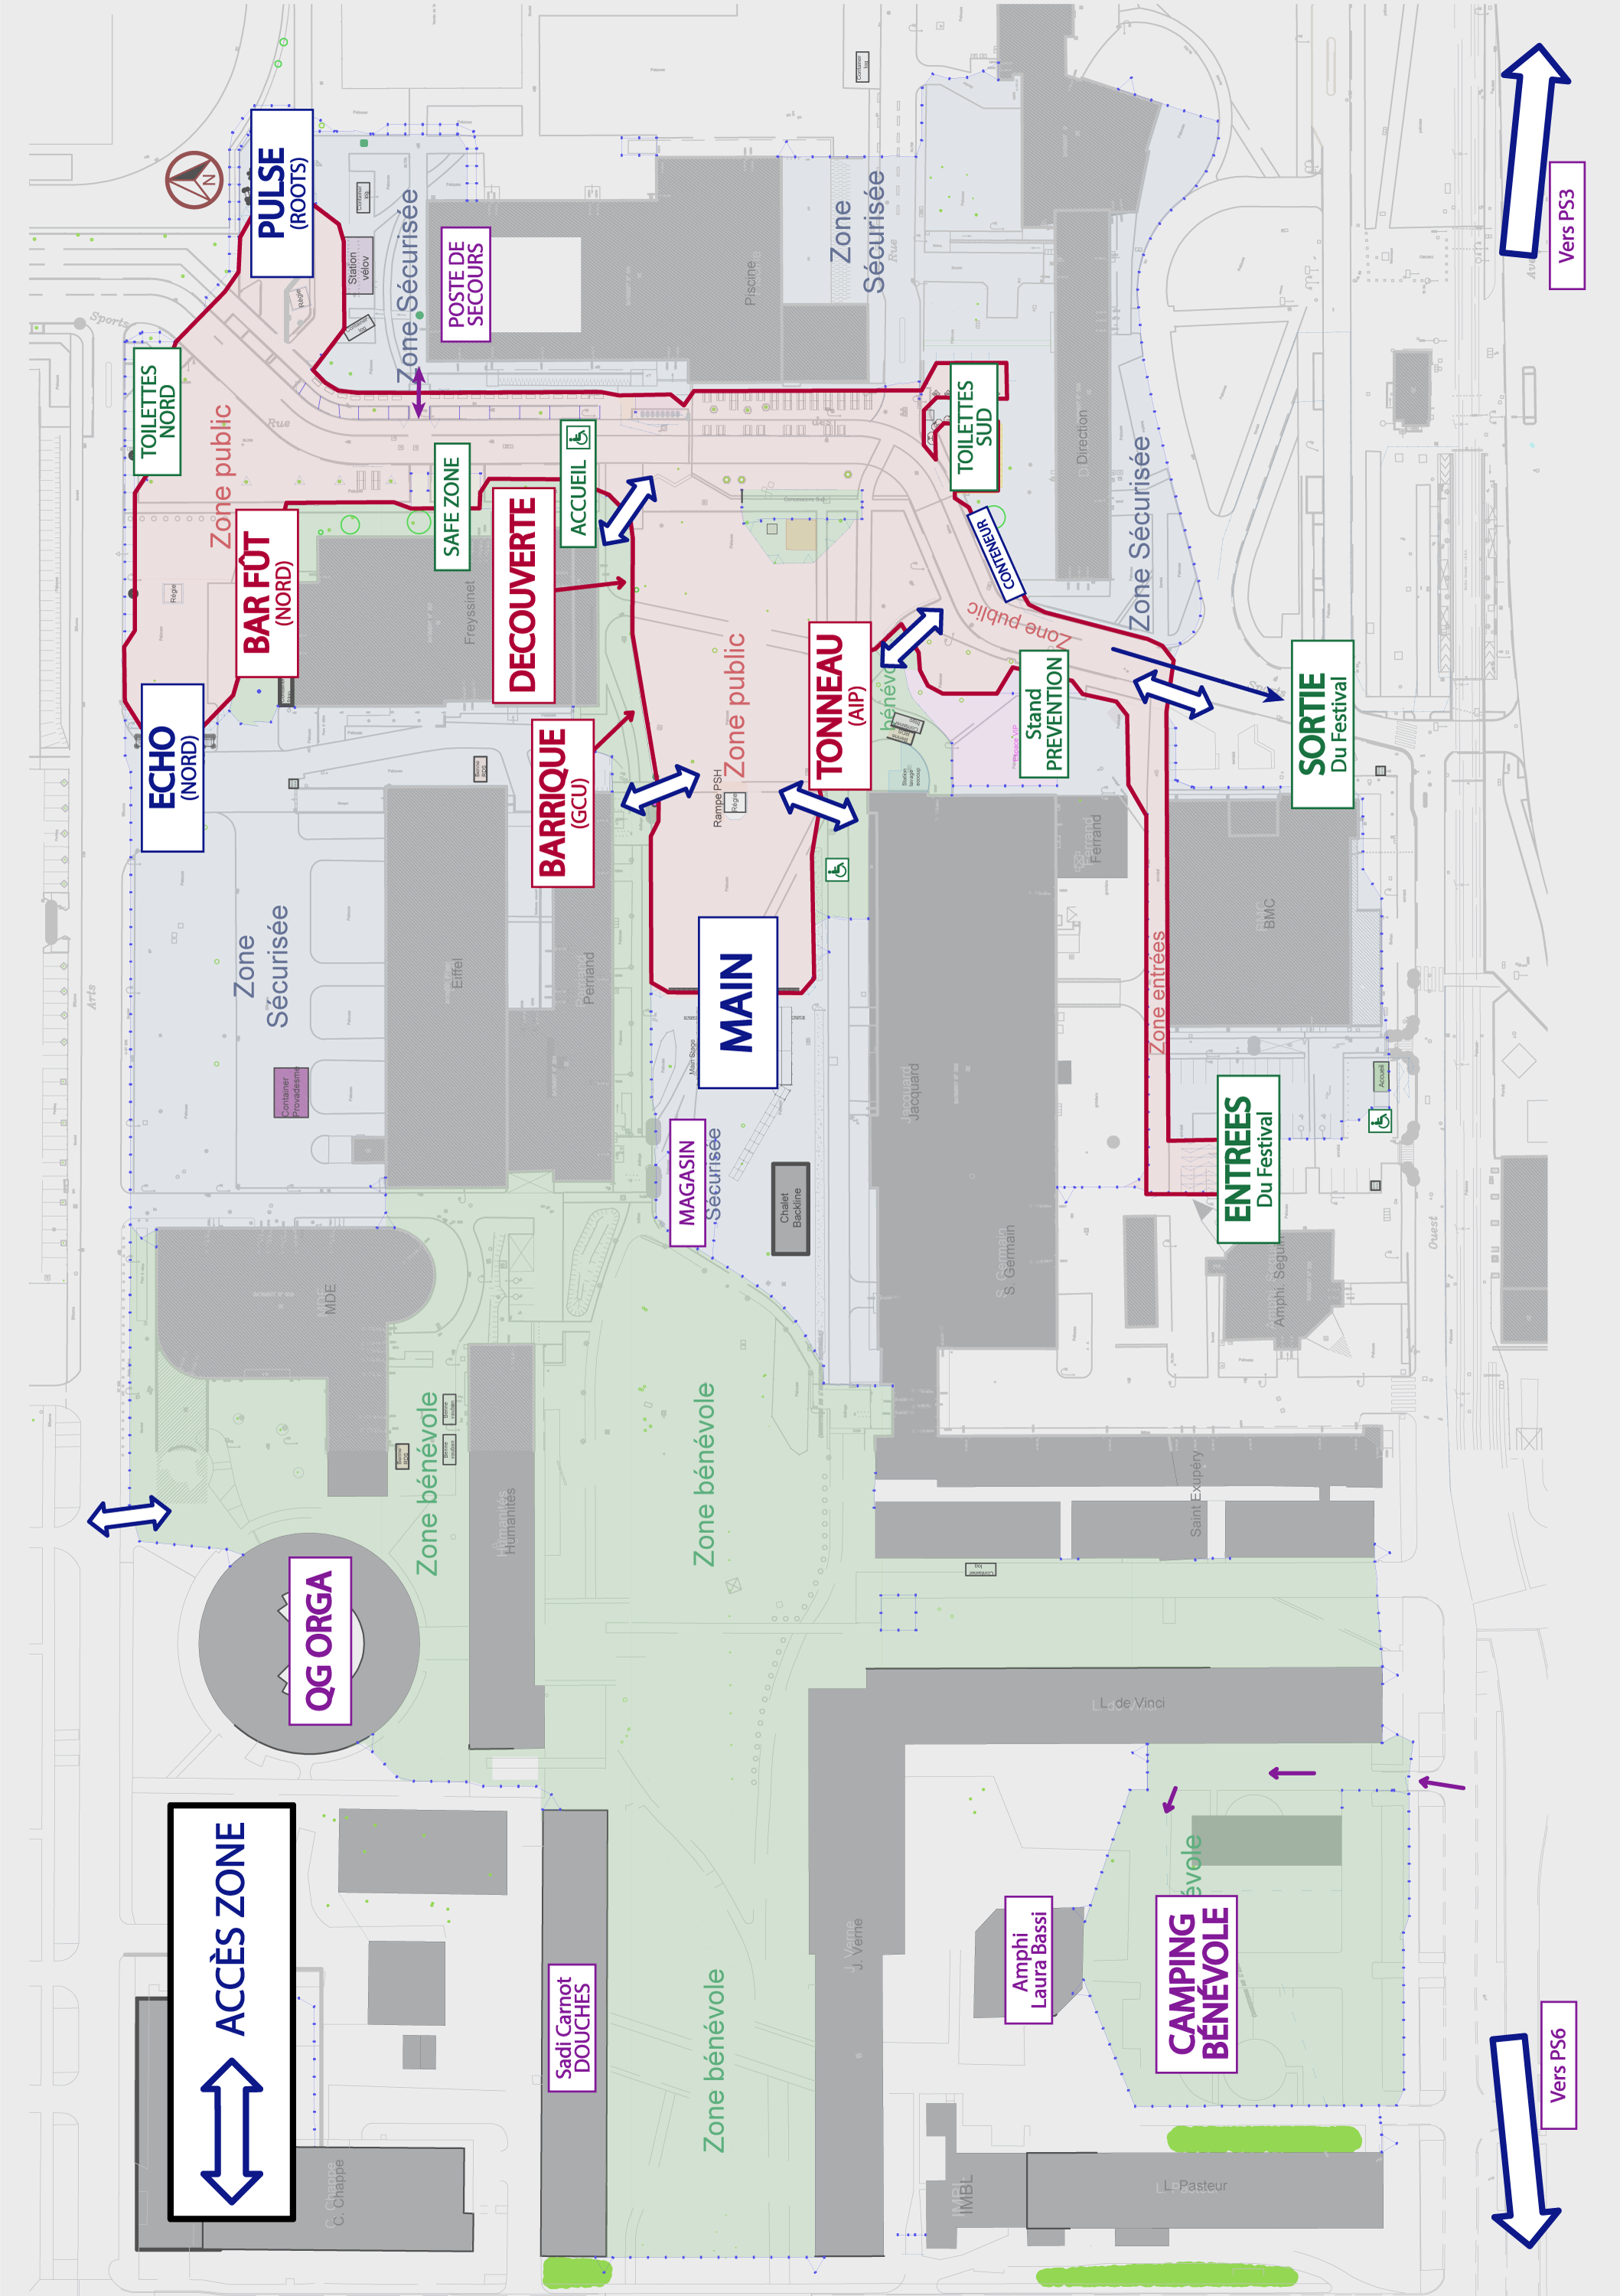
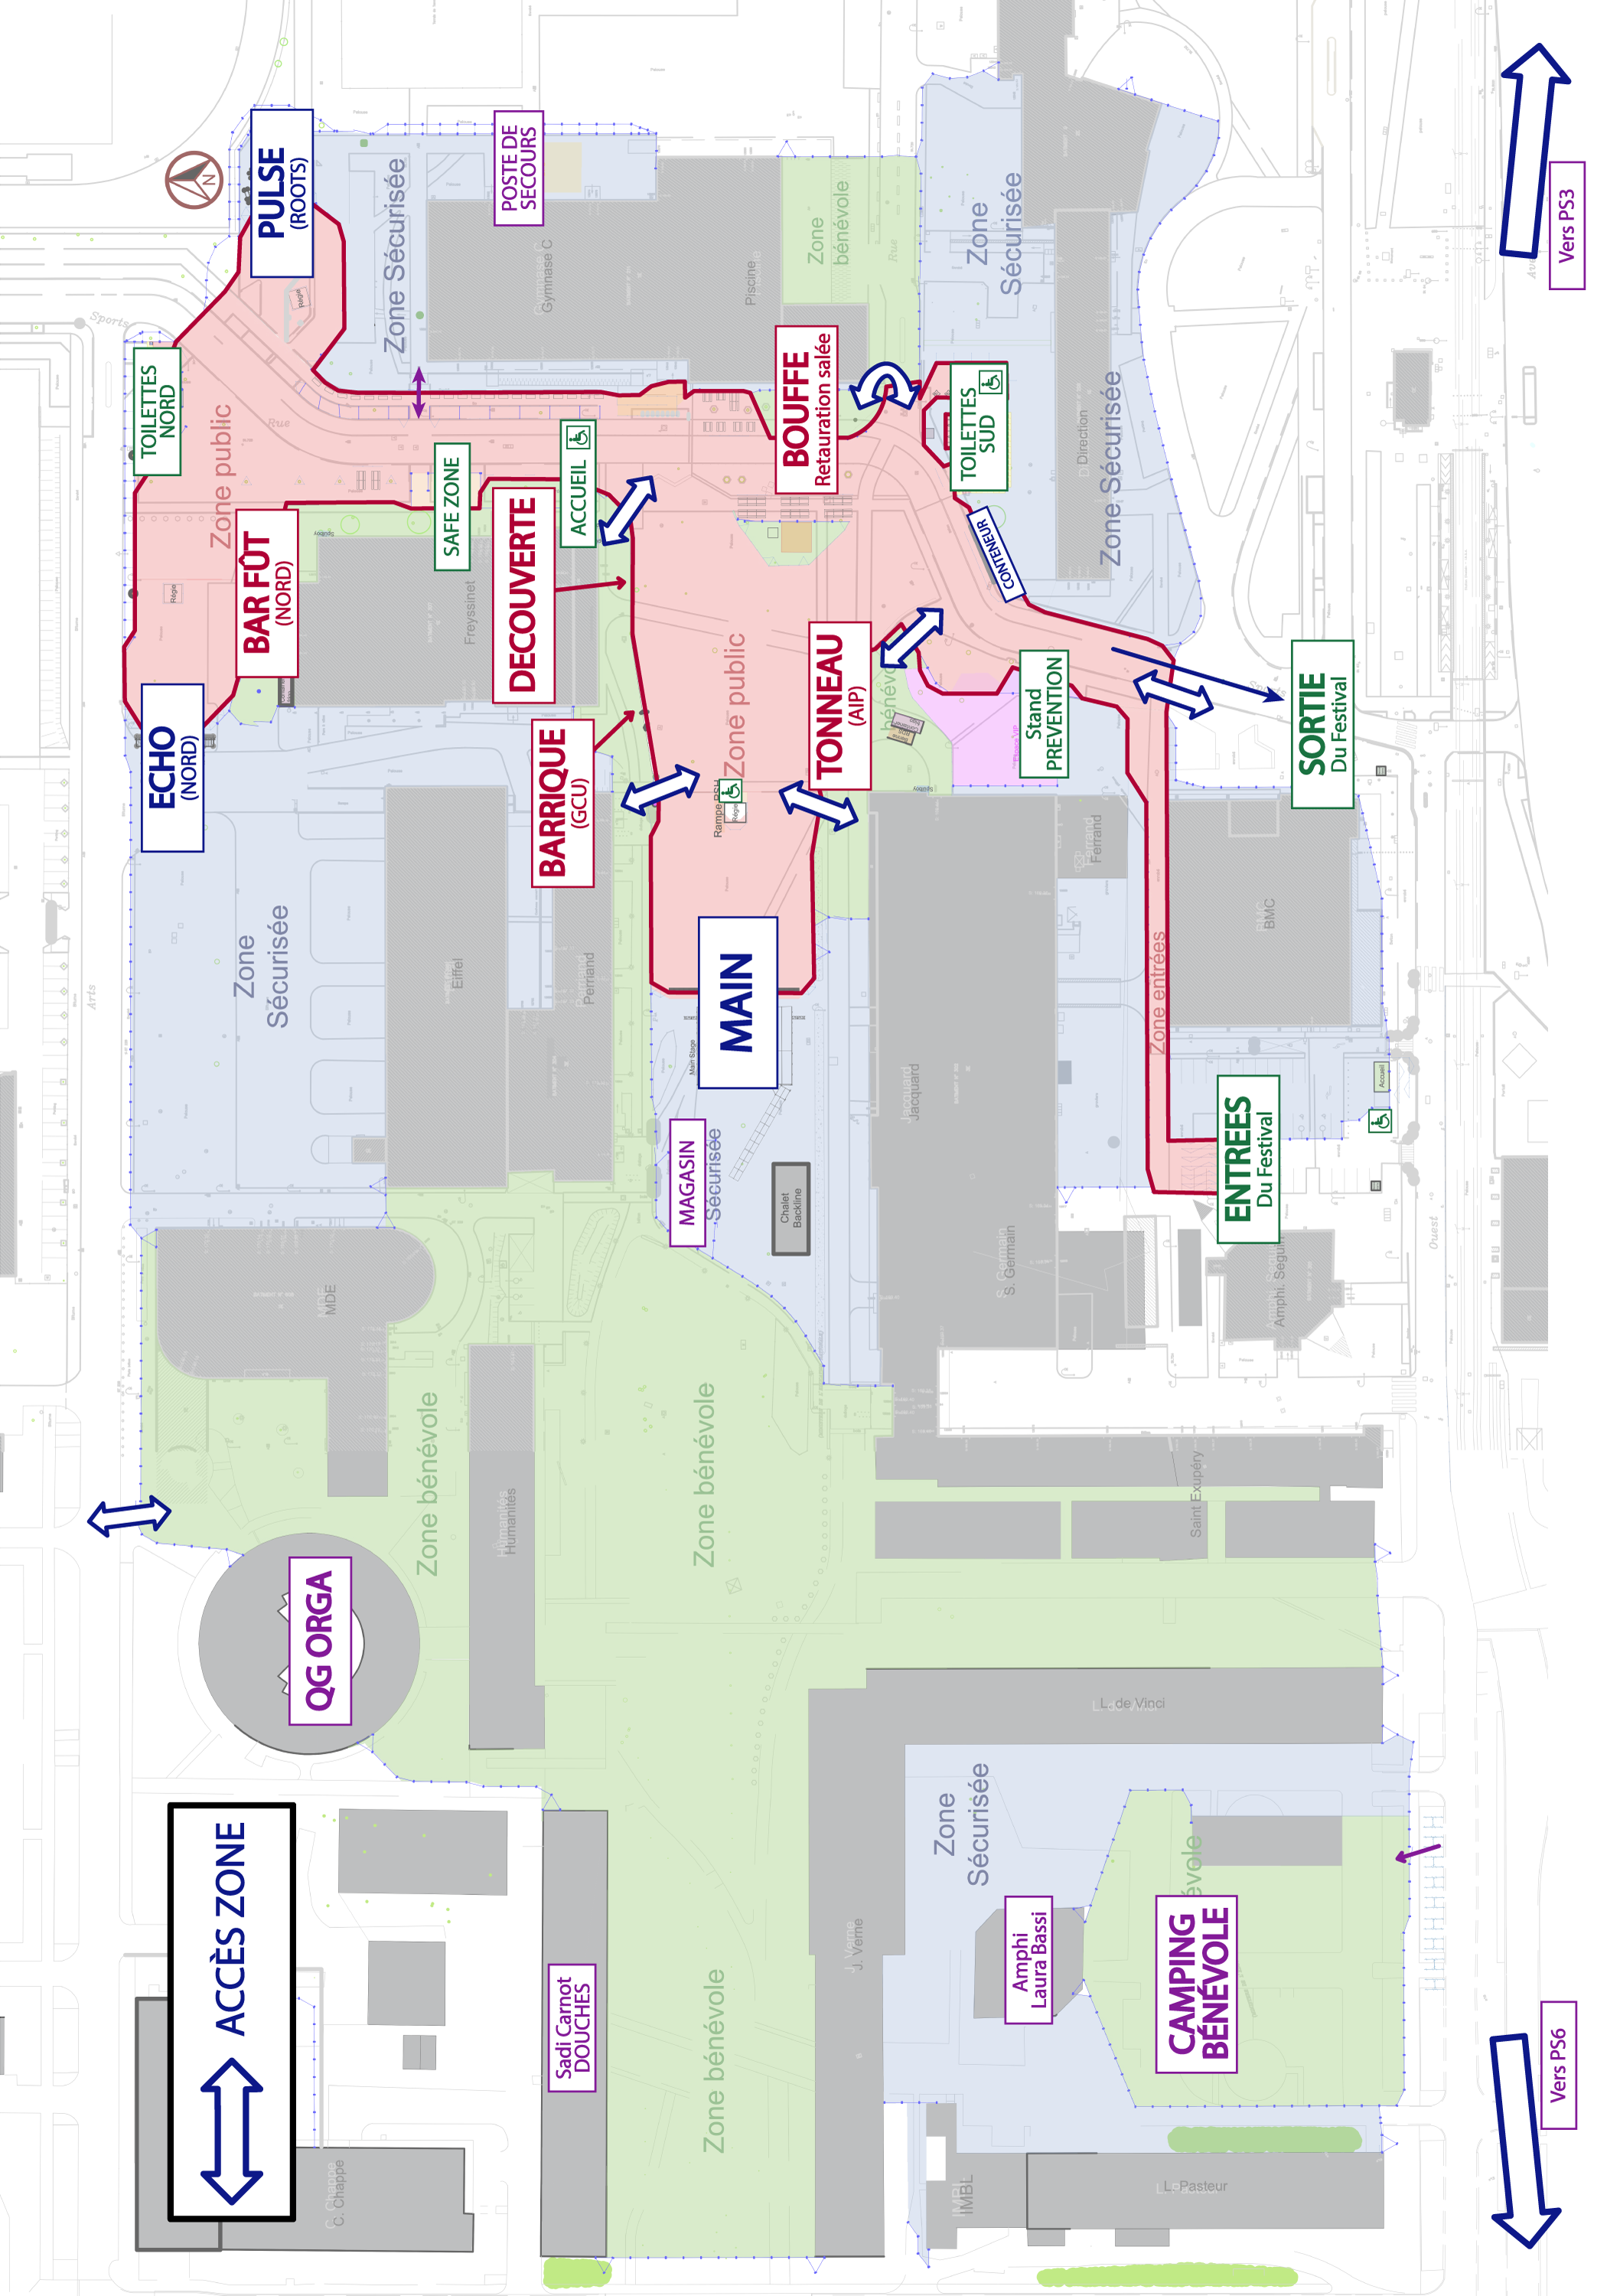
fix: update festival map for paper planning #2652
Approved-by: Polo Diemunsch <[email redacted]>
Approved-by: Léon Dumestre <[email redacted]>

Closes #2652

See merge request 24-heures-insa/overbookd-mono!3668

diff --git a/apps/api/src/user/planning/render/pdf-render-strategy.ts b/apps/api/src/user/planning/render/pdf-render-strategy.ts
@@ -177,9 +177,9 @@ export class PdfRenderStrategy implements RenderStrategy {
           {
             stack: [
               { text: "Responsables Bénévoles", style: ["bold"] },
-              "Alix : 06 40 95 34 29",
-              "Candice : 07 82 62 70 50",
-              "Gaëlle : 06 51 82 66 25",
+              "Jade : 06 13 66 06 74",
+              "Guillaume : 07 49 13 00 75",
+              "Margot : 06 51 06 78 75",
             ],
             width: 150,
           },
@@ -207,7 +207,9 @@ export class PdfRenderStrategy implements RenderStrategy {
   private generateHeader(volunteer: Volunteer) {
     return function (currentPage: number): Content {
       const headerTitle =
-        currentPage === SECURITY_PLAN_PAGE ? "Plan Sécu" : volunteer.name;
+        currentPage === SECURITY_PLAN_PAGE
+          ? "Plan du Festival"
+          : volunteer.name;
       return {
         columns: [
           {

diff --git a/apps/api/src/user/planning/render/pdf/introduction.ts b/apps/api/src/user/planning/render/pdf/introduction.ts
@@ -19,7 +19,7 @@ export class Introduction {
       {
         ul: [
           "Le plan bénévole disponible sous forme de QR Code, il te permettra de trouver ton chemin en toutes circonstances avec sa carte interactive",
-          "Le plan sécu en page 2, il est là pour te donner une vision spécifique du site en soirée (où est-ce que tu peux rentrer, où sont les bars etc...)",
+          "Le plan du Festival est en page 2, il est là pour te donner une vision spécifique du site en soirée (où est-ce que tu peux rentrer, où sont les bars etc...)",
           "Un planning avec une liste de créneaux pendant lesquels on compte sur toi pour nous aider",
           "Un rappel du dispositif cocktail purple en toute fin de livret, ce dispositif vise à mettre à l'abri des personnes qui se sentent en danger sur le festival",
         ],